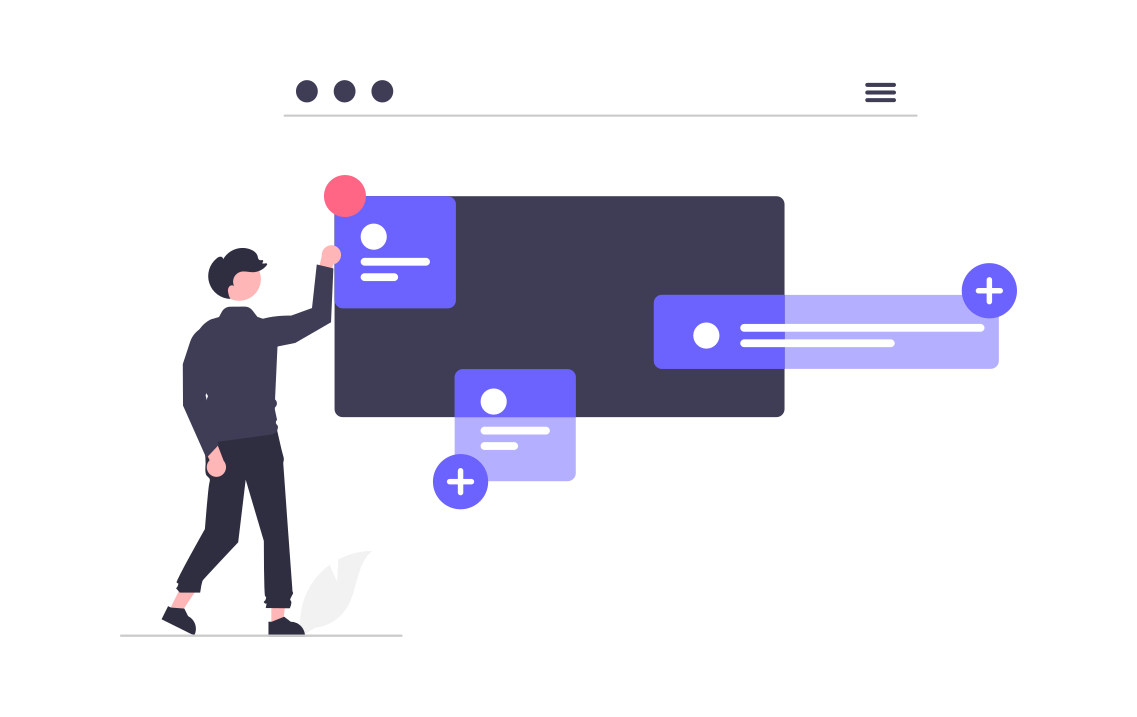
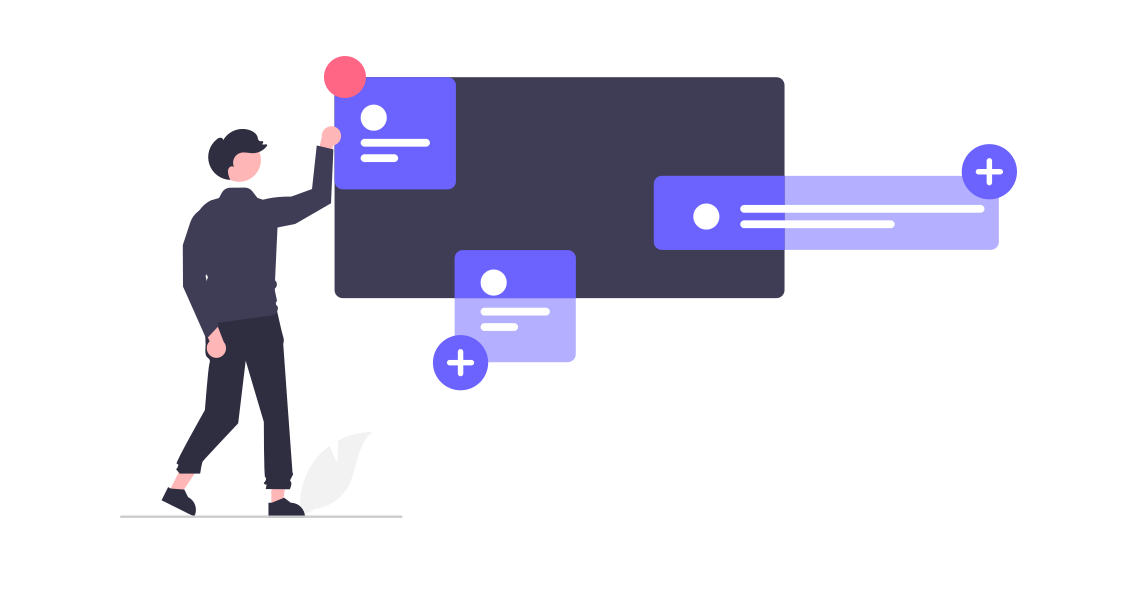
landing page setup

Changed region(s): [[0.1231, 0.0905, 0.8927, 0.9045]]

diff --git a/index.html b/index.html
@@ -4,12 +4,39 @@
     <meta charset="UTF-8">
     <meta http-equiv="X-UA-Compatible" content="IE=edge">
     <meta name="viewport" content="width=device-width, initial-scale=1.0">
-    <!-- font awesome link -->
+    <!-- font awesome CDN link -->
     <link rel="stylesheet" href="https://cdnjs.cloudflare.com/ajax/libs/font-awesome/4.7.0/css/font-awesome.min.css">
     <link rel="stylesheet" href="styles.css">
-    <title> Component Library | Home</title>
+    <link rel="stylesheet" href="./landing_page.css">
+    <title> Falcon UI | Home</title>
 </head>
 <body>
+    <div class="landing-page">
+        <div class="landing-page-img">
+            <img src="./hero.png" alt="hero-image">
+        </div>
+        <div class="landing-page-content">
+            <h1>Falcon UI</h1>
+            <p>Save time in designing components and buld your websites and webapps faster using our reusable, customisable CSS Component Library - FALCON UI</p>
+        </div>
+        <div class="landing-page-buttons">
+            <button><a href="#installation-guide">Check Installation</a></button>
+            <button>Read documentation</button>
+        </div>
+    </div>
+    <div id="installation-guide">
+        <h1>Installation</h1>
+        <h2>To get - CSS Styles</h2>
+        <p>To achieve the styles of specific component, just add the following code in a head tag of your html file.</p>
+        <div class="installation-carbon-img">
+            <h1>CARBON IMAGE WILL BE SHOWN HERE</h1>
+        </div>
+        <h2>To get - Font Awesome Icons</h2>
+        <p>To have a icons in your website or webapp you also need to add Font Awesome CDN link. Just add followinf lines of code in head tag of your html file</p>
+        <div class="font-awesome-carbon-img">
+            <h1>FONT AWESOME CARBON IMAGE WILL BE SHOWN HERE</h1>
+        </div>
+    </div>
     <script src="index.js"></script>
 </body>
 </html>

diff --git a/styles.css b/styles.css
@@ -1,3 +1,8 @@
-*{
-    background-color: rgb(154, 110, 53);
+@import url('https://fonts.googleapis.com/css2?family=Open+Sans:wght@400;500;700&display=swap');
+
+html, body{
+  margin: 0;
+  padding: 0;
+  box-sizing: border-box;
+  font-family: 'Open sans', serif, sans-serif;
 }
